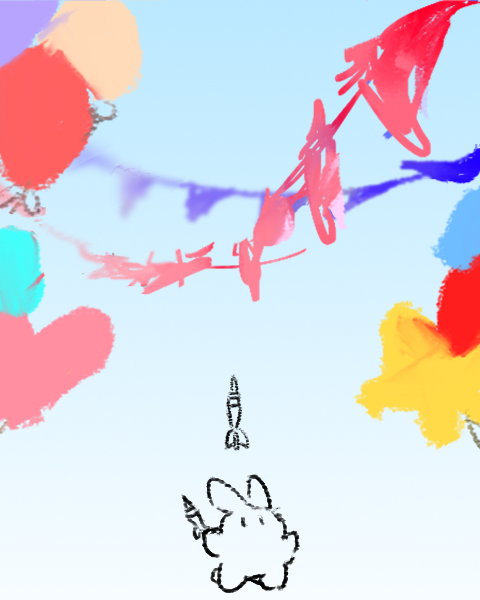
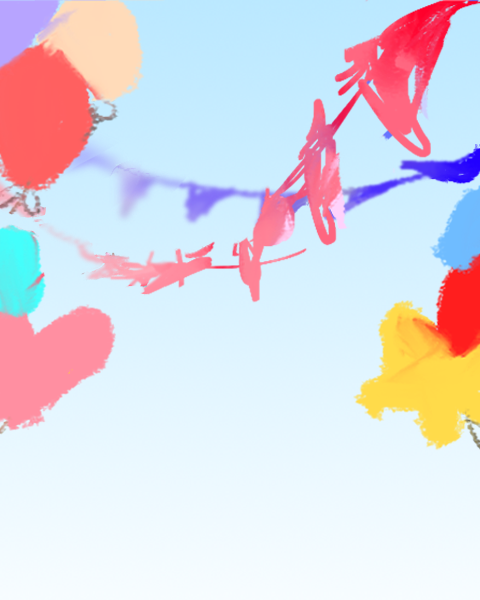
changes bullet image and add player die anima

Changed region(s): [[0.375, 0.78, 0.625, 0.99], [0.4688, 0.63, 0.5312, 0.75]]

diff --git a/ShmupGame/ShmupModule/player.py b/ShmupGame/ShmupModule/player.py
@@ -8,7 +8,7 @@ class Player(pygame.sprite.Sprite):
         self.image = player00_img
         self.image.set_colorkey(BLACK)
         self.rect = self.image.get_rect()
-        self.radius = 20
+        self.radius = PLAYER_RADIUS
         # pygame.draw.circle(self.image, RED, self.rect.center, self.radius)
         self.rect.centerx = WIDTH / 2
         self.rect.bottom = HEIGHT - 10
@@ -27,33 +27,33 @@ class Player(pygame.sprite.Sprite):
     def update(self):
         now = pygame.time.get_ticks()                               # Declare the now equals game time ticks
         if now - self.hit_changes > 1000:                             # if the now
-            self.hit_changes
-            if 100 >= self.shield > 90:
-                self.image = player00_img
-            elif 90 >= self.shield > 80:
-                self.image = player01_img
-            elif 80 >= self.shield > 70:
-                self.image = player02_img
-            elif 70 >= self.shield > 60:
-                self.image = player03_img
-            elif 60 >= self.shield > 50:
-                self.image = player04_img
-            elif 50 >= self.shield > 40:
-                self.image = player05_img
-            elif 40 >= self.shield > 30:
-                self.image = player06_img
-            elif 30 >= self.shield > 20:
-                self.image = player07_img
-            elif 20 >= self.shield > 10:
-                self.image = player08_img
-            elif 10 >= self.shield > 1:
-                self.image = player09_img
+            self.hit_changes = now
+        if 100 >= self.shield > 90:
+            self.image = player00_img
+        elif 90 >= self.shield > 80:
+            self.image = player01_img
+        elif 80 >= self.shield > 70:
+            self.image = player02_img
+        elif 70 >= self.shield > 60:
+            self.image = player03_img
+        elif 60 >= self.shield > 50:
+            self.image = player04_img
+        elif 50 >= self.shield > 40:
+            self.image = player05_img
+        elif 40 >= self.shield > 30:
+            self.image = player06_img
+        elif 30 >= self.shield > 20:
+            self.image = player07_img
+        elif 20 >= self.shield > 10:
+            self.image = player08_img
+        elif 10 >= self.shield >= 1:
+            self.image = player09_img
         # timeout for powerups
         if self.power >= 2 and pygame.time.get_ticks() - self.power_time > POWERUP_TIME:
             self.power -= 1
             self.power_time = pygame.time.get_ticks()
         # unhide.if hidden
-        if self.hidden and pygame.time.get_ticks() - self.hide_timer > 1000:
+        if self.hidden and pygame.time.get_ticks() - self.hide_timer > 10000:
             self.hidden = False
             self.rect.centerx = WIDTH / 2
             self.rect.bottom = HEIGHT - 10

diff --git a/ShmupGame/main.py b/ShmupGame/main.py
@@ -2,6 +2,7 @@ import random
 
 import pygame
 
+from ShmupGame.ShmupModule.Die_anima import Die_anima
 from ShmupGame.ShmupModule.Pow import Pow
 from ShmupModule.mob import Mob
 from ShmupModule.player import Player
@@ -17,7 +18,7 @@ from ShmupModule.draw_lives import draw_lives
 pygame.init()
 pygame.mixer.init()
 
-
+stop = False
 
 score = 0
 
@@ -61,8 +62,12 @@ while running:
                 bullets.add(bullet2)
                 shoot_sound.play()
 
+    if keystate[pygame.K_p]:
+        stop = not stop
+
     # Update
-    all_sprites.update()
+    if not stop:
+        all_sprites.update()
 
     # check to see if a bullet hit a mob
     hits = pygame.sprite.groupcollide(mobs, bullets, True, True)
@@ -99,9 +104,10 @@ while running:
         if player.shield <= 0:
             death_explosion = Explosion(player.rect.center, 'player')
             all_sprites.add(death_explosion)
+            die_anima = Die_anima(player.rect.midbottom)
+            all_sprites.add(die_anima)
             player.hide()
-            player.lives -= 1
-            player.shield = 100
+
         if 100 >= player.shield > 90:
             player.image = player0_5_img
             player.hit_changes = pygame.time.get_ticks()
@@ -132,18 +138,26 @@ while running:
         elif 10 >= player.shield > 1:
             player.image = player9_5_img
             player.hit_changes = pygame.time.get_ticks()
+    if player.shield <= 0 and not die_anima.alive():
+        player.lives -= 1
+        player.shield = 100
 
-    if player.lives == 0 and not death_explosion.alive():
-        running = False
+    # if player.lives == 0 and not death_explosion.alive():
+    #     running = False
 
     # Draw / render
-    screen.fill(BLACK)
+    # screen.fill(BLACK)
     screen.blit(background, background_rect)
     all_sprites.draw(screen)
     draw_text(screen, str(score), 18, WIDTH / 2, 10)
     draw_shield_bar(screen, 5, 5, player.shield)
     draw_lives(screen, WIDTH - 100, 5, player.lives, lives_img)
+    # check hit rect
+    # pygame.draw.circle(screen, BLACK, player.rect.center, player.radius, 1)
+    # for mob in mobs:
+    #     pygame.draw.circle(screen, RED, mob.rect.center, mob.radius, 1)
     # *after* drawing everything, flip the display
+
     pygame.display.flip()
 
 pygame.quit()

diff --git a/ShmupGame/ShmupModule/setting.py b/ShmupGame/ShmupModule/setting.py
@@ -27,7 +27,7 @@ pygame.display.set_caption("Shmup!")
 clock = pygame.time.Clock()
 
 # Load BG
-background = pygame.image.load(path.join(img_dir, "background.png")).convert()
+background = pygame.image.load(path.join(img_dir, "background.png")).convert_alpha()
 background_rect = background.get_rect()
 
 '''font'''
@@ -55,11 +55,19 @@ player6_5_img = pygame.image.load(path.join(img_dir, "player6.5.png")).convert_a
 player7_5_img = pygame.image.load(path.join(img_dir, "player7.5.png")).convert_alpha()
 player8_5_img = pygame.image.load(path.join(img_dir, "player8.5.png")).convert_alpha()
 player9_5_img = pygame.image.load(path.join(img_dir, "player9.5.png")).convert_alpha()
+'''die'''
+player_die_list = []
+for i in range(0, 17):
+    player_die_list.append(pygame.image.load(path.join(img_dir, f"playerdie0{i}.png")).convert_alpha())
 # player_img = pygame.transform.scale(player_img, (55, 80))
 lives_img = pygame.image.load(path.join(img_dir, "lives.png")).convert_alpha()
 # player_mini_img = pygame.transform.scale(player_img, (25, 19))
 lives_img.set_colorkey(BLACK)
-bullet_img = pygame.image.load(path.join(img_dir, "laserBlue16.png")).convert()
+
+bullet_images = []
+for i in range(1, 7):
+    bullet_image = pygame.image.load(path.join(img_dir, f"bullet0{i}.png")).convert_alpha()
+    bullet_images.append(pygame.transform.scale(bullet_image, (17, 47)))
 meteor_list = ['meteorBrown_big1.png', 'meteorBrown_big2.png', 'meteorBrown_big3.png', 'meteorBrown_big4.png',
                'meteorBrown_med1.png', 'meteorBrown_med3.png', 'meteorBrown_small1.png', 'meteorBrown_small2.png',
                'meteorBrown_tiny1.png', 'meteorBrown_tiny2.png', 'meteorGrey_big1.png', 'meteorGrey_big2.png',
@@ -105,3 +113,6 @@ pygame.mixer.music.set_volume(0.4)
 all_sprites = pygame.sprite.Group()             # for we can more convenient to update all sprite
 
 mobs = pygame.sprite.Group()
+
+'''player setting'''
+PLAYER_RADIUS = 40

diff --git a/ShmupGame/ShmupModule/mob.py b/ShmupGame/ShmupModule/mob.py
@@ -10,7 +10,6 @@ class Mob(pygame.sprite.Sprite):
         self.image = self.image_orig.copy()                         # initialize our image is copied from the original
         self.rect = self.image.get_rect()                           # initialize our rect is to get the image rectangle
         self.radius = int(self.rect.width * .85 / 2)                # initialize the radius of our circle rect
-        # pygame.draw.circle(self.image, RED, self.rect.center, self.radius)
         self.rect.x = random.randrange(0, WIDTH - self.rect.width)  # The initial position of rect.x will be randomly within the range of 0 to WIDTH(minus the width of rect)\
         self.rect.y = random.randrange(-150, -100)                  # the initial posution of rect.y will be randomly within the range of-150 to -100 position
         self.speed_y = random.randrange(1, 8)                       # initialize the y of speed will random at randrange 1~8

diff --git a/ShmupGame/ShmupModule/Die_anima.py b/ShmupGame/ShmupModule/Die_anima.py
@@ -1,0 +1,25 @@
+from .setting import *
+
+
+class Die_anima(pygame.sprite.Sprite):
+    def __init__(self, bottom):
+        pygame.sprite.Sprite.__init__(self)
+        self.image = player_die_list[0]
+        self.rect = self.image.get_rect()
+        self.rect.midbottom = bottom
+        self.frame = 0
+        self.last_update = pygame.time.get_ticks()
+        self.frame_rate = 75
+
+    def update(self):
+        now = pygame.time.get_ticks()
+        if now - self.last_update > self.frame_rate:
+            self.last_update = now
+            self.frame += 1
+            if self.frame == len(player_die_list):
+                self.kill()
+            else:
+                bottom = self.rect.midbottom
+                self.image = player_die_list[self.frame]
+                self.rect = self.image.get_rect()
+                self.rect.midbottom = bottom

diff --git a/ShmupGame/ShmupModule/bullet.py b/ShmupGame/ShmupModule/bullet.py
@@ -1,9 +1,10 @@
+import random
 from .setting import *
 
 class Bullet(pygame.sprite.Sprite):
     def __init__(self, x, y):               # define initialize function to initialize all object in Bullet
         pygame.sprite.Sprite.__init__(self) # initialize the self function of pygame.sprite.Sprite
-        self.image = bullet_img             # load bullet image
+        self.image = random.choice(bullet_images)            # load bullet image
         self.image.set_colorkey(BLACK)      # ignore the black on the bullet image
         self.rect = self.image.get_rect()   # get the rectangle of the bullet image
         self.rect.bottom = y                # initialize our rect.bottom at the y position
